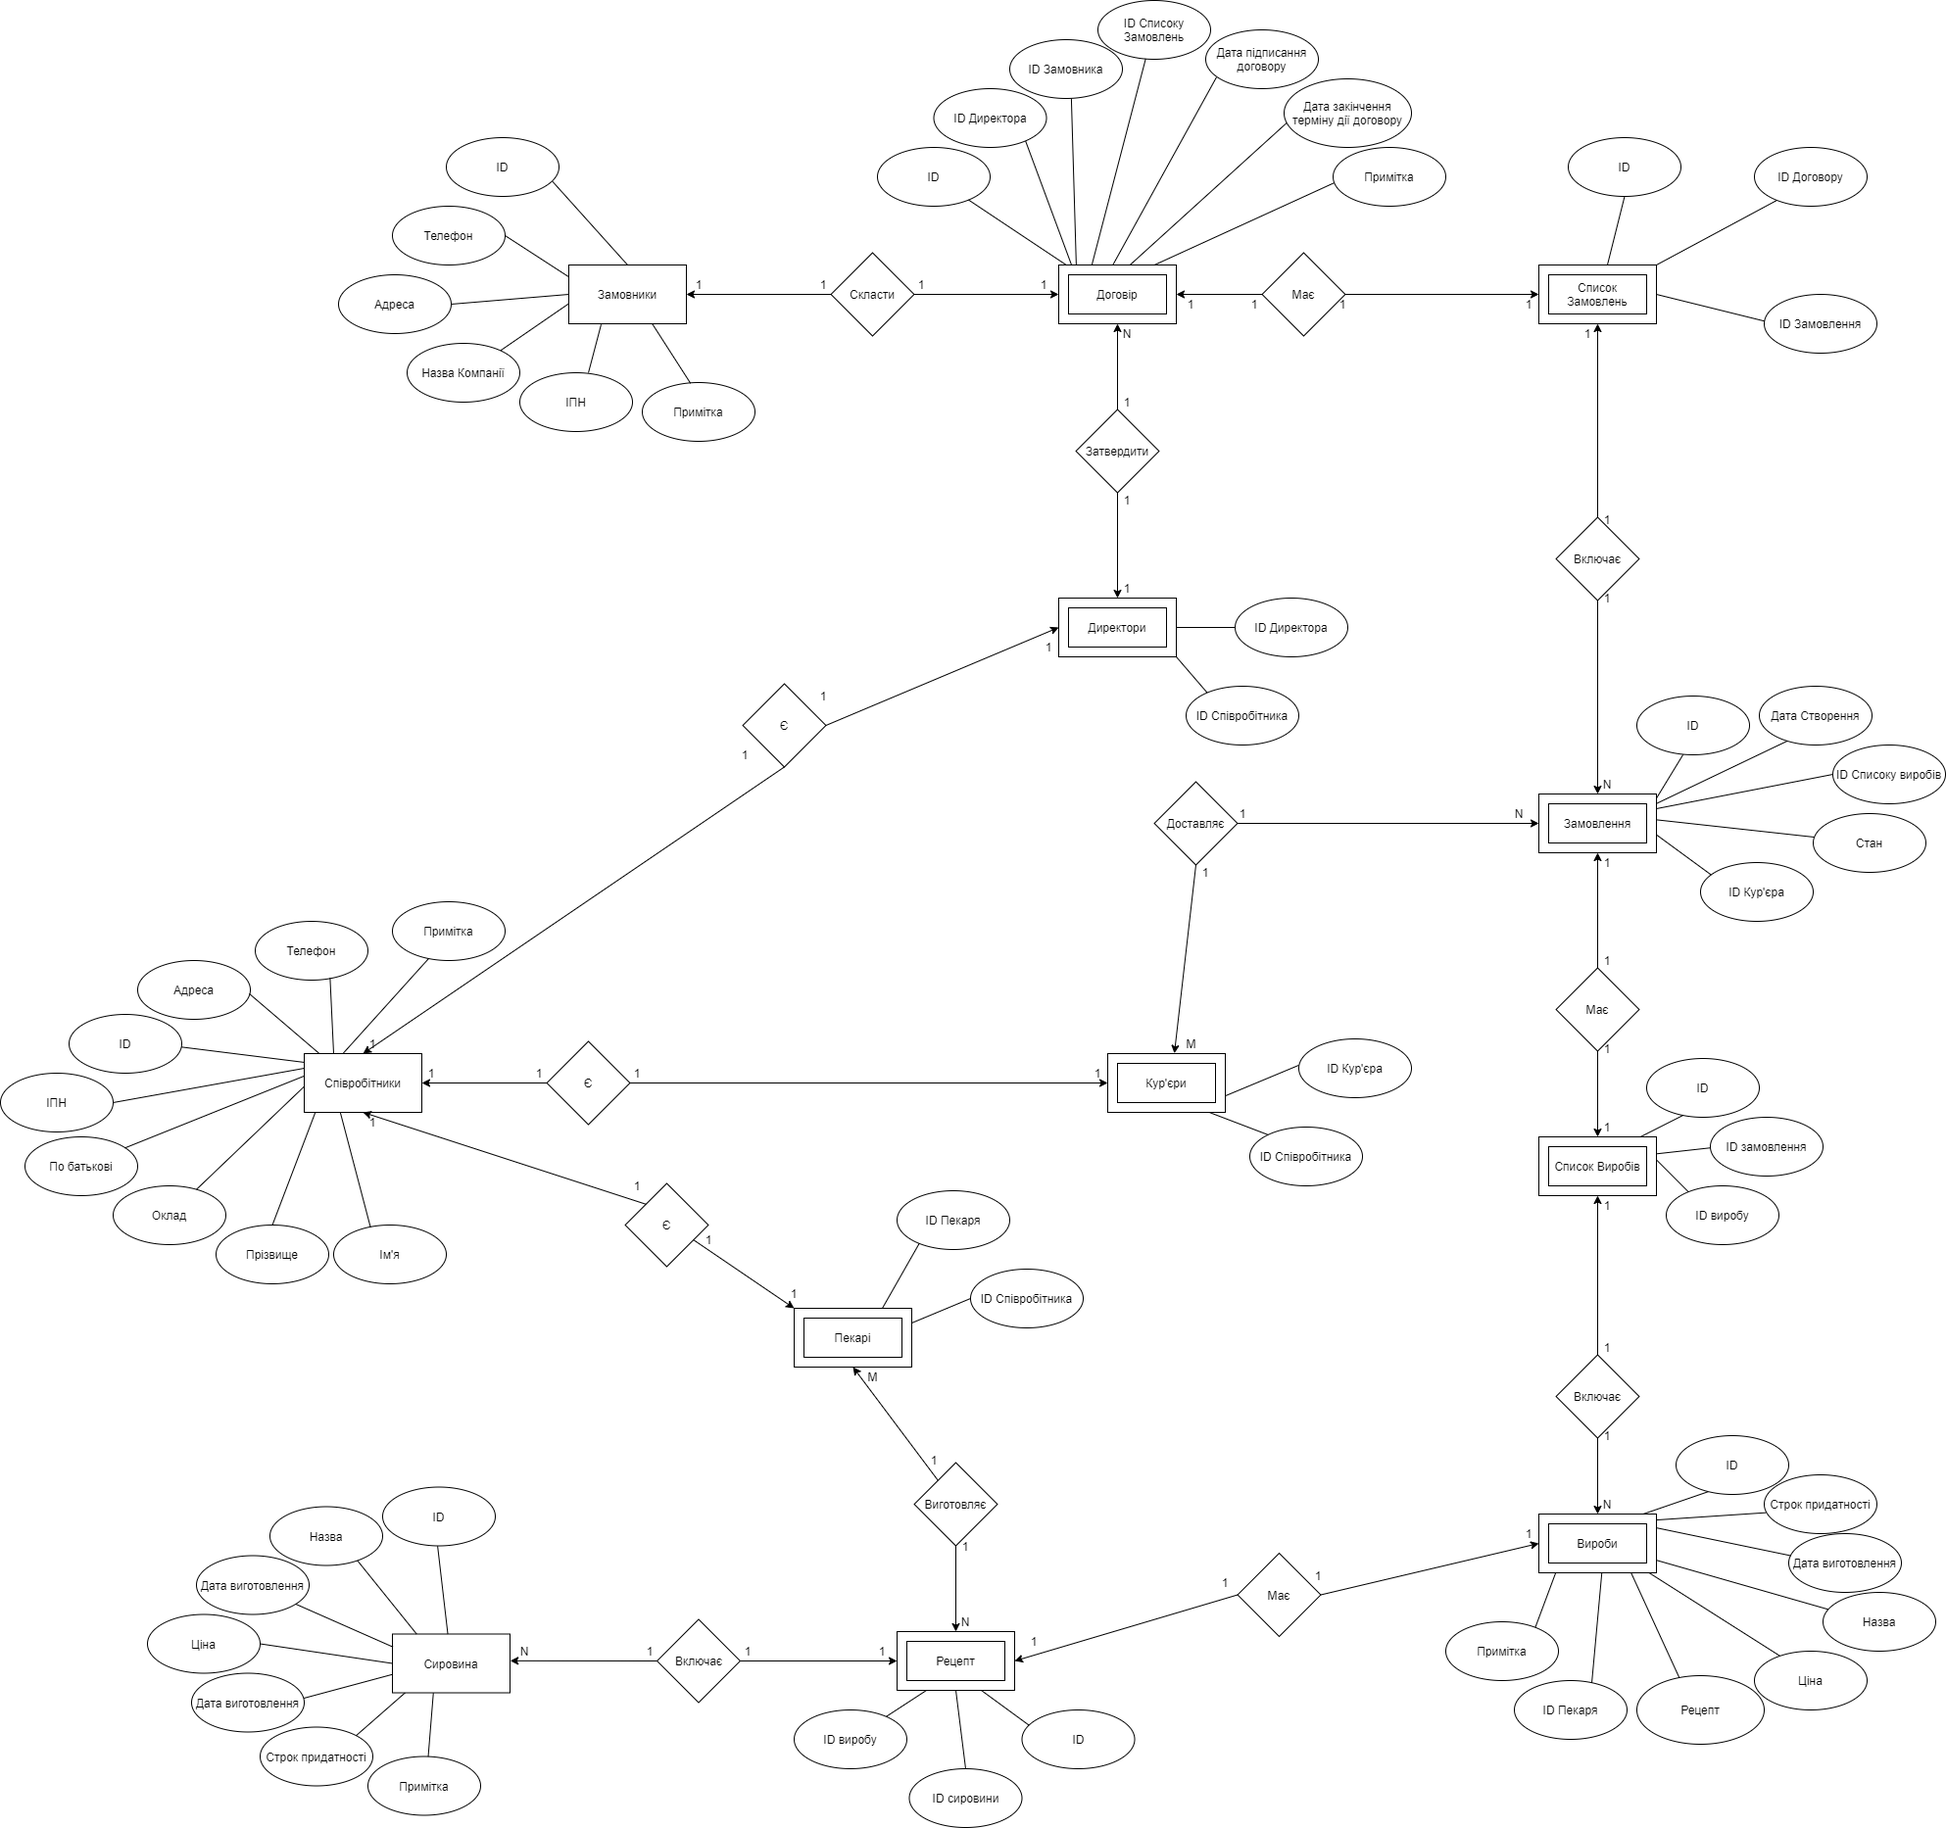
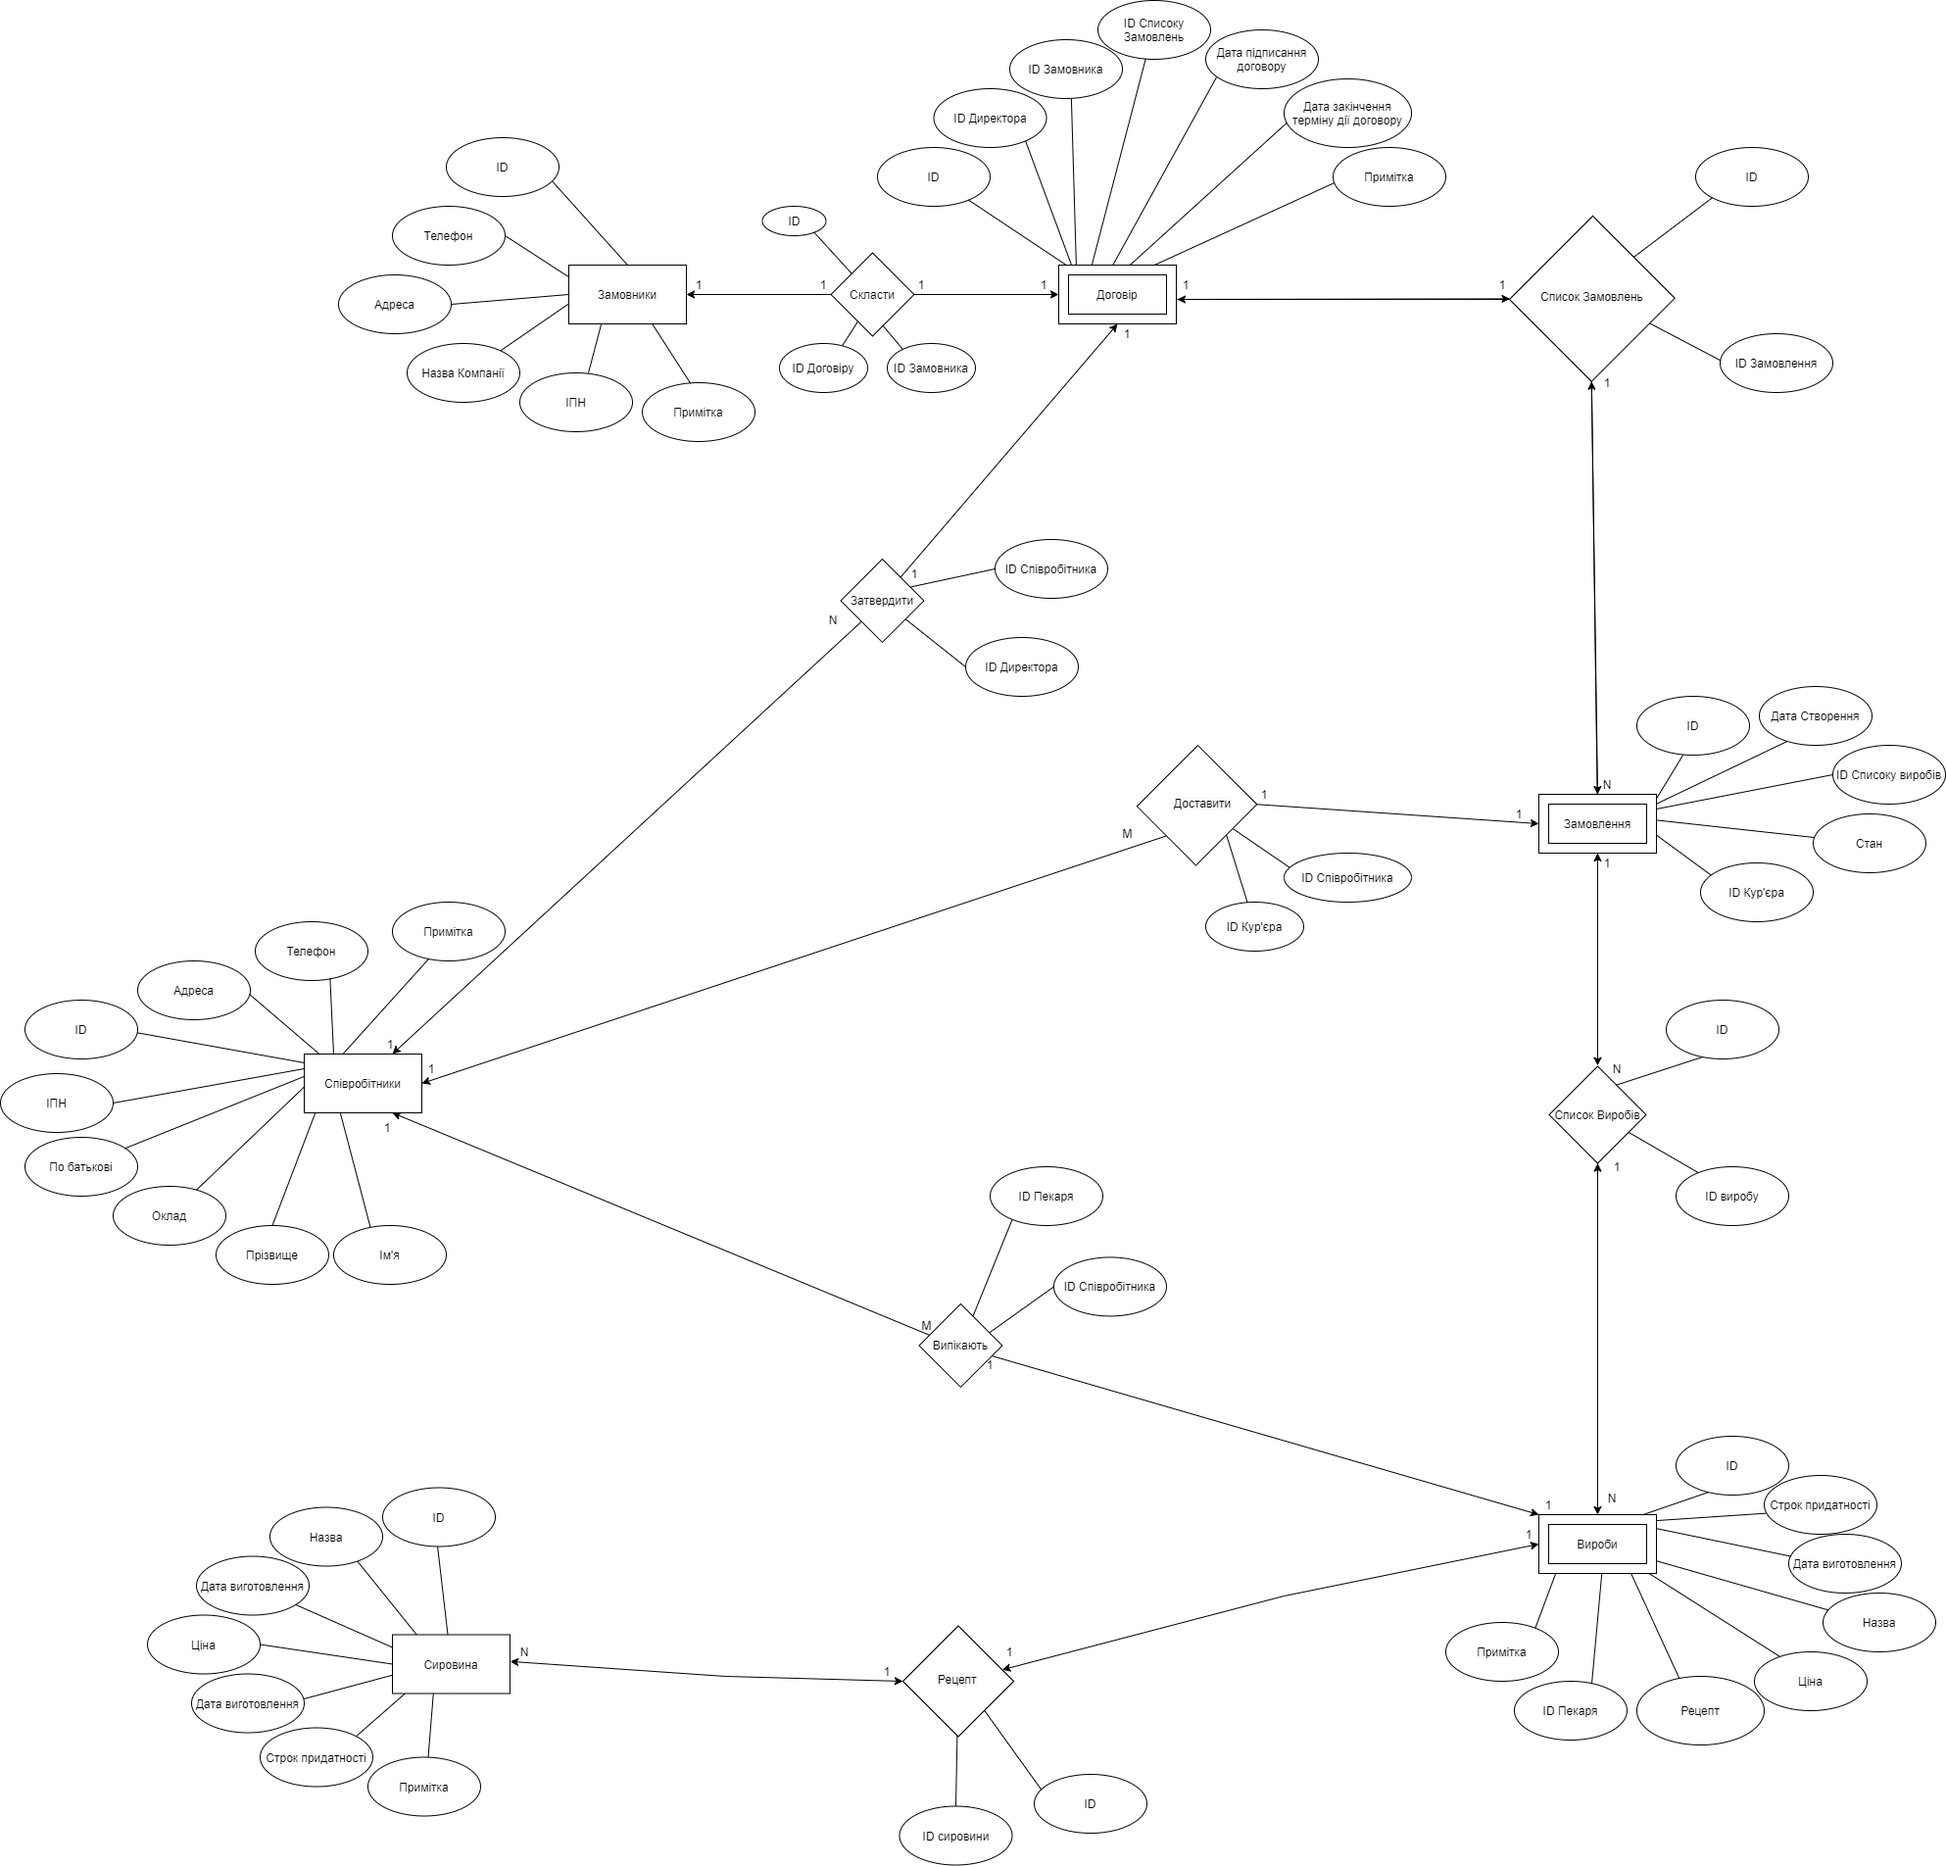
docs: fix diagram

diff --git a/l3.md b/l3.md
@@ -40,34 +40,23 @@
 | Сутності                  | Атрибути |
 | --- | --- |
 | Співробітники компанії    | ID Співробітника, Оклад, Прізвище, Ім'я, По-батькові, Зміна, ІПН, Телефон, Адреса, Примітка   |
-| Список Директорів         | ID Директора, ID співробітника |
-| Список Пекарів            | ID Пекаря, ID співробітника |
-| Список Кур'єрів           | ID Кур'єра, ID співробітника |
 | Замовники                 | ID Замовника, Назва Компанії, Адреса, ІПН, Телефон, Примітка   |
 | Договори                  | ID Договору, Дата підписання договору, Зміст, Список замовлень, ID Замовника, ID Директора, Дата закінчення терміну дії договору, Примітка  |
-| Список замовлень          | ID Списка замовлень, ID Договору, ID замовлення   |
 | Замовлення                | ID Замовлення, Дата Створення, Список виробів, Стан, ID Кур'єра    |
-| Список виробів            | ID Списка виробів, ID замовлення, ID виробу   |
 | Вироби                    | ID Виробу, Назва, Ціна, Дата виготовлення, Строк придатності, Рецепт, ID Пекаря, Примітка   |
-| Рецепт                    | ID Рецепту, ID сировини, кількість    |
 | Cировина                  | ID Сировини, Назва, Ціна, Дата виготовлення, Строк придатності, Примітка  |
 
 ## 2. Класифікація Зв'язків:
 
 | Зв'язок   | Опис  |
 |   ---     |   --- |
-| Співробітники-Пекарі (Список) - "є"       | ID пекаря, ID співробітника           |
-| Співробітники-Директори (Список) - "є"    | ID директора, ID співробітника        |
-| Співробітники-Кур'єри (Список) - "є"      | ID кур'єра, ID співробітника          |
-| Замовник-Договір - "створювати"           | ID замовника, ID договору             |
-| Директор-Договір - "затверджувати"        | ID договору, ID директора             |
-| Договір-Список Замовлень - "Має"          | ID договору, ID списка замовлень      |
-| Список Замовлень- Замовлення - "Включати" | ID списка замовлень, ID замовлення    |
-| Кур'єр-Замовлення - "доставляти"          | ID замовлення, ID кур'єра             |
-| Замовлення-Вироби - "Включати"            | ID замовлення, ID виробу              |
-| Пекар-Вироби - "створювати"               | ID пекаря, ID виробу                  |
-| Вироби - Рецепт "має"                     | ID виробу, ID рецепту                 |
-| Рецепт-Сировина - "включати"              | ID рецепту, ID сировини               |
+| Співробітники-Вироби  - "Випікають"       | ID пекаря, ID співробітника           |
+| Співробітники-Договір - "Затвердити"      | ID директора, ID співробітника        |
+| Співробітники-Замовлення  - "Доставляти"  | ID кур'єра, ID співробітника          |
+| Замовник-Договір - "Створювати"           | ID замовника, ID договору             |
+| Договір-Замовлення - "Список Замовлень"   | ID договору, ID списка замовлень      |
+| Замовлення-Вироби - "Список Виробів"      | ID Список Виробів, ID виробу          |
+| Вироби - Сировина "Рецепт"                | ID сировини, ID рецепту               |
 
 ## 3. Інфологічна модель (нотація Чена):
 
